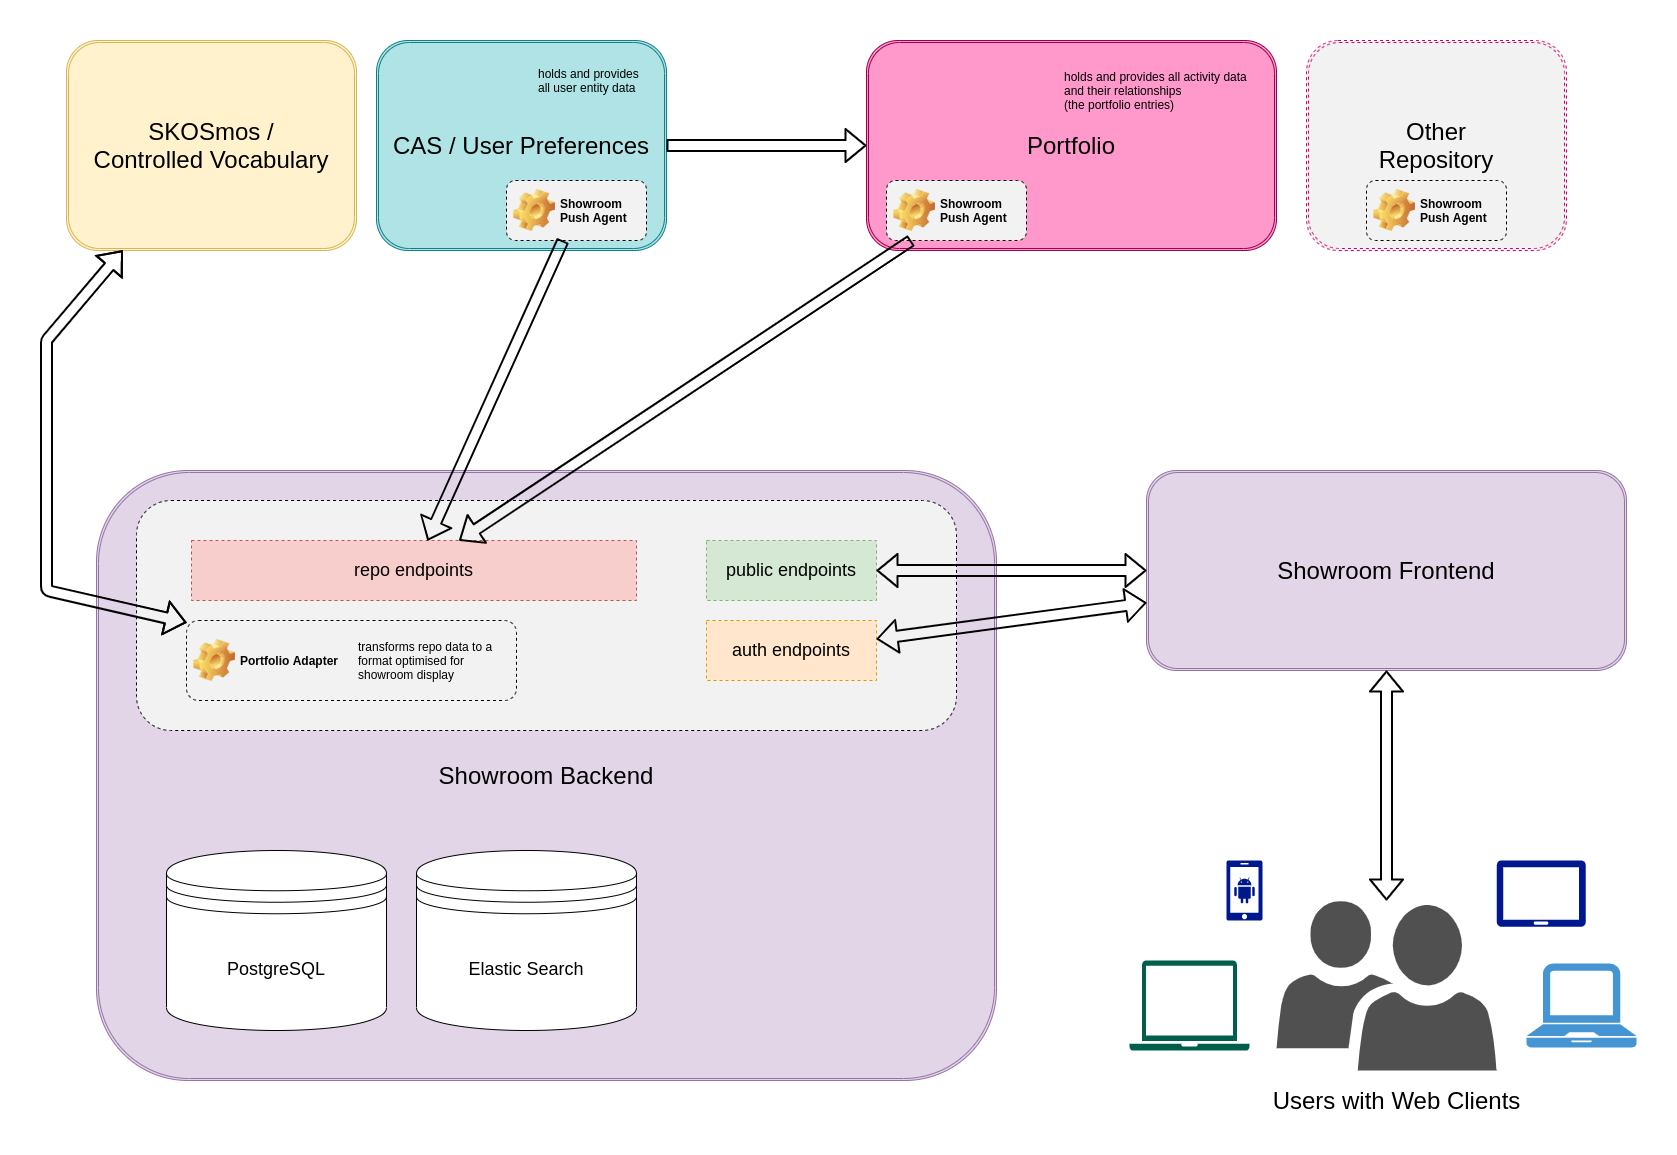
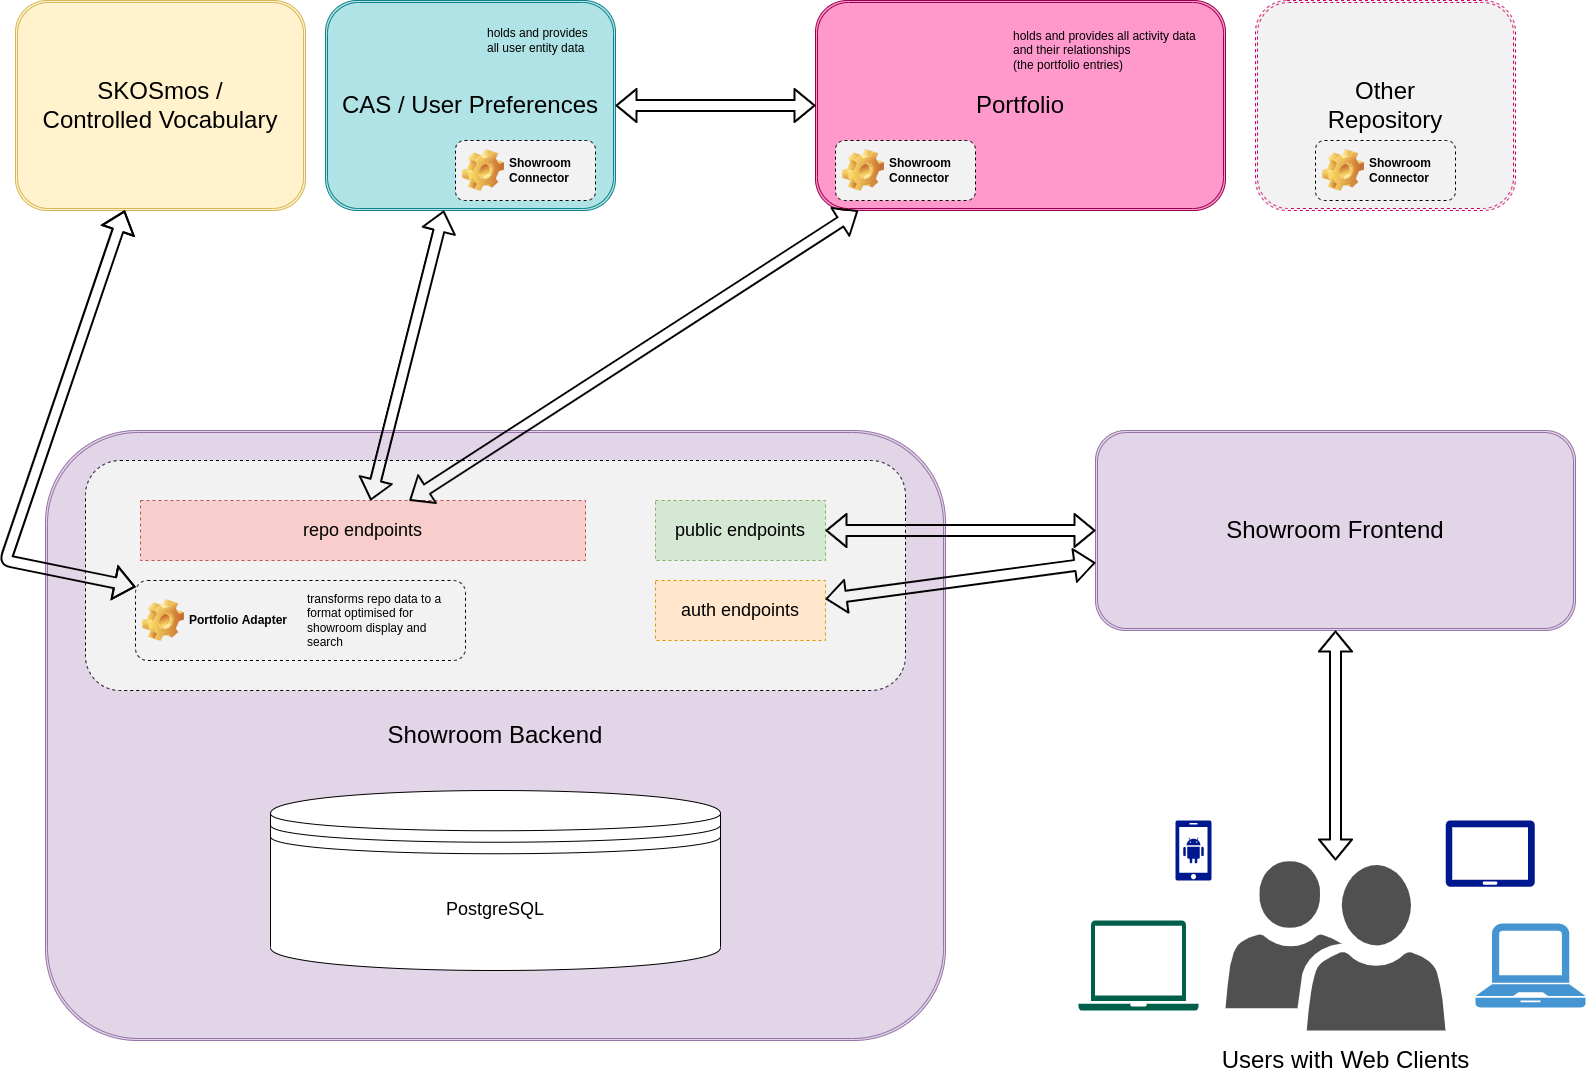
+ add and update docs

diff --git a/docs/source/architecture.md b/docs/source/architecture.md
@@ -20,22 +20,144 @@ in this project and how data is handled and transformed.
 
 ## The basic architecture
 
-> TODO!
+In the following diagram you see a macro perspective on _Showroom_ and how
+it is connected to other components. A detailed explanation follows below.
 
 ![Showroom Backend Architecture Diagram](showroom-backend-architecture.png)
+(full-size image: [](showroom-backend-architecture.png)
+drawio source: [](showroom-backend-architecture.drawio))
 
+Let's look at the _Showroom Backend_ itself first. The data is stored in a
+_PostgreSQL_ database - which in our default setup runs in its own container. The
+backend itself is a _Django_ application - also running in its own container or for
+development on the developers host, ideally using a python virtual environment. More
+on that in the [](./install.md) section. Apart from that we are using a
+_Redis_ store - also in its own container - for caching and message queueing.
+
+The backend provides a REST API, which is described in more detail in [](./rest_api.md).
+It provides public and authenticated endpoints for the frontend, as well as
+endpoints with an API key based authentication for repositories to push data to
+_Showroom_.
+
+A central component of _Showroom_ is the _Portfolio adapter_, which is responsible
+to handle all transformations and elaborations for entry data that is published in
+_Portfolio_. It is also responsible for generating all relevant search indices, that
+are used in the search. For more information on the data model see the corresponding
+section below. For mode details on the search functionality go to [](./search_logic.md).
+
+Now, apart from the _Showroom Backend_ there is of course also a _Showroom Frontend_,
+which is a server-side rendered application written with Nuxt.js and Vue.js . All
+display and manipulation of Showroom data for and by users is handled through the
+frontend. Apart from that the backend still provides the classic Django admin for
+administration and mostly development and debugging convenience.
+
+To get actual data into _Showroom_ we need a repository, that uses the
+`repo` endpoints, to push published entries. In this basic setup we hae a single
+[base Portfolio](https://github.com/base-angewandte/portfolio-backend) instance
+that pushes entries to Showroom, whenever they are published
+by its users. Next to this repository we need an authentication backend, that
+also provides information about the users/publishers - as long as they have activated
+their _Showroom_ page. This can also be called the _user repository_, in our basic setup
+a single instance of [base CAS](https://github.com/base-angewandte/cas) with the
+_User Preferences_ module, that has been added in 1.1. While in this case there is only a single data and a single user repository, there
+could be more repositories connected to Showroom. This is elaborated in the next
+section.
+
+Then there is a controlled vocabulary in form of a [Skosmos](http://www.skosmos.org/)
+instance. This is used by Showroom (as well as by Portfolio) to provide localized labels
+for a range of concepts described in the data.
 
 
 ## Ecosystem architecture
 
-> TODO!
+The following diagram shows the potential application of Showroom in a multi-instance
+and multi-stakeholder data ecosystem.
 
 ![Showroom Ecosystem Architecture Diagram](showroom-ecosystem-architecture.drawio.png)
+(full-size image: [](showroom-ecosystem-architecture.drawio.png)
+drawio source: [](showroom-ecosystem-architecture.drawio))
+
+
+In contrast to what we have seen in the former section on the basic architecture,
+here we see how different repositories are connected to a _Showroom Backend_ instance,
+who can all push data, that was published by their users. While currently this is
+already possible with different _Portfolio_ instances, the adoption of different
+CRIS or other data repositories would require the development of a corresponding
+adapter.
+
+> Note: while Showroom Backend is developed with hindsight to other potential repo
+> adapters, currently we still would need to refactor some significant parts of the
+> backend code, to have a fully modularized version, where repo adapters can be
+> interchanged by a mere configuration directive and the use of a corresponding module.
+
+Similar to several data repositories, Showroom could also accommodate for different
+user repositories / authentication backends. Similar to the idea of repo adapters, this
+is still an abstract concept and would require implementation in a later version.
+
+The user in the end should be able to access a _Showroom_ instance through different
+frontends. This allows for different institutions to use the same _Showroom_
+infrastructure, while still providing a customized or branded user experience to its
+own user base. Additionally, their can be joint platforms showcasing the activities
+of several institutions in one place.
 
 
 ## Showroom objects, and the data model
 
-> TODO!
+Showroom combines data from published entries in data repositories as well as data from
+user repositories, if users have activated their Showroom page. These should be
+presented in similar user interface structures and also searchable in mostly similar
+ways. In addition to what comes in from the repositories, it is also planned to add
+albums as another type of Showroom object, which is solely maintained by the users
+within Showroom. Similarly, users can already maintain their biographic data and a
+showcase for their user page within Showroom.
+
+These are the guiding considerations for the design of the Showroom data model, which
+will be explained in a bit more detail in this section.
+
+Showroom contains the following entities, implemented as Django models: 
+
+* `SourceRepository` : a representation of an institution's repository, including the
+  API key used by the repository to authenticate.
+* `ShowroomObject` : any object in Showroom that can be displayed on a distinct page. So
+  far this contains _entities_ (persons, departements and insitutions) and _activities_
+  (the entries published in the repository). In the future _albums_ will be a different
+  kind of ShowroomObject.
+* `EntityDetail` : contains aggregated data only for ShowroomObjects of an _entity_ type
+* `ActivityDetail` : contains aggergated data only for ShowroomObjects that are
+  _activities_
+* `Media` : stores metadata about media that are associated with a ShowroomObject
+  (usually an activity). The media files themselves are not stored in Showroom, only
+  the links to the publicly consumable media in the SourceRepository.
+
+Further, the following (explicit) Django models are used to manage relationships
+between ShowroomObjects or to create search indices:
+
+* Relation
+* ContributorActivityRelations
+* TextSearchIndex
+* DateSearchIndex
+* DateRangeSearchIndex
+* DateRelevanceIndex
+
+The following diagram displays those core models (with a green box color), as well
+as the available endpoints in the API (with a light magenta-ish box color) and all
+the elaborated data formats (with a light violet box color), that are used by the
+API, or by some object properties to store information. Additionally the elaborated
+data formats in the diagram display the relations between actual core model data
+and what the clients get through the API.
 
 ![Showroom Data Model Diagram](showroom-model-classes.png)
+(full-size image: [](showroom-model-classes.png)
+drawio source: [](showroom-model-classes.drawio))
 
+What this model does not show are the transformations from an activity's source data
+format in the repository (e.g. as it is stored in _Portfolio_) to how it is stored
+in Showroom.
+
+> TODO: transform internal requirements docs to separate chapter containing a definition
+> of data transformations from Portfolio to Showroom
+
+
+### Data flow
+
+> TODO!

diff --git a/docs/source/index.rst b/docs/source/index.rst
@@ -26,7 +26,10 @@ backend, and how to set it up.
 The rest of the sections give you a little more insight into how the
 :doc:`configuration` works in detail, the :doc:`management_commands` you can use,
 some context for the :doc:`rest_api` and a few words on the :doc:`lists_logic`, that
-is used to create sub-structured lists of activities for entity pages.
+is used to create sub-structured lists of activities for entity pages. Also the
+:doc:`search_logic` section explains how search works in *Showroom* and it also
+contains the source definition of all available filters and how they are supposed
+to work.
 
 .. toctree::
    :maxdepth: 2
@@ -38,3 +41,4 @@ is used to create sub-structured lists of activities for entity pages.
    management_commands
    rest_api
    lists_logic
+   search_logic

diff --git a/docs/source/search_logic.md b/docs/source/search_logic.md
@@ -1,0 +1,3 @@
+# Search logic
+
+> TODO!
